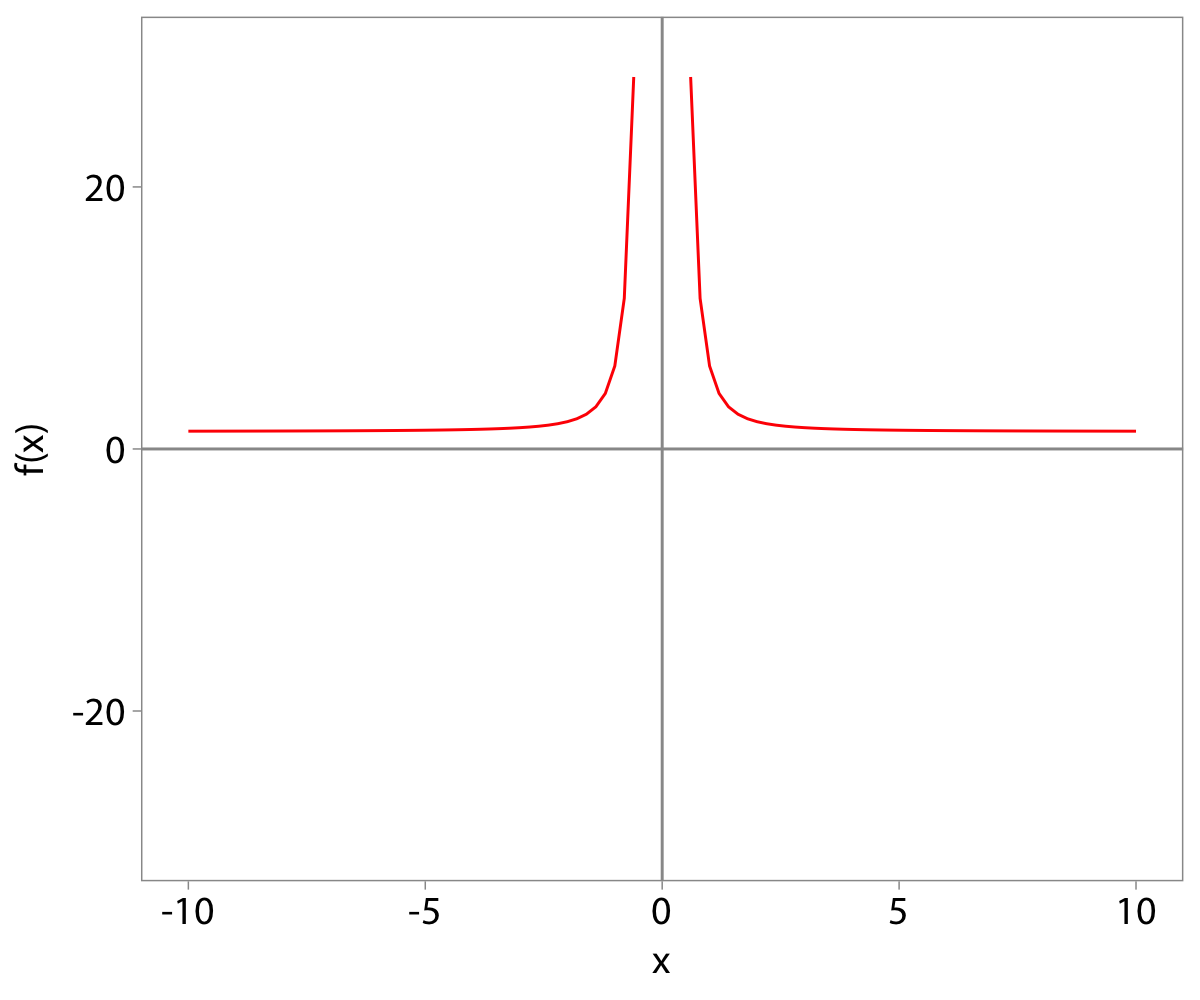
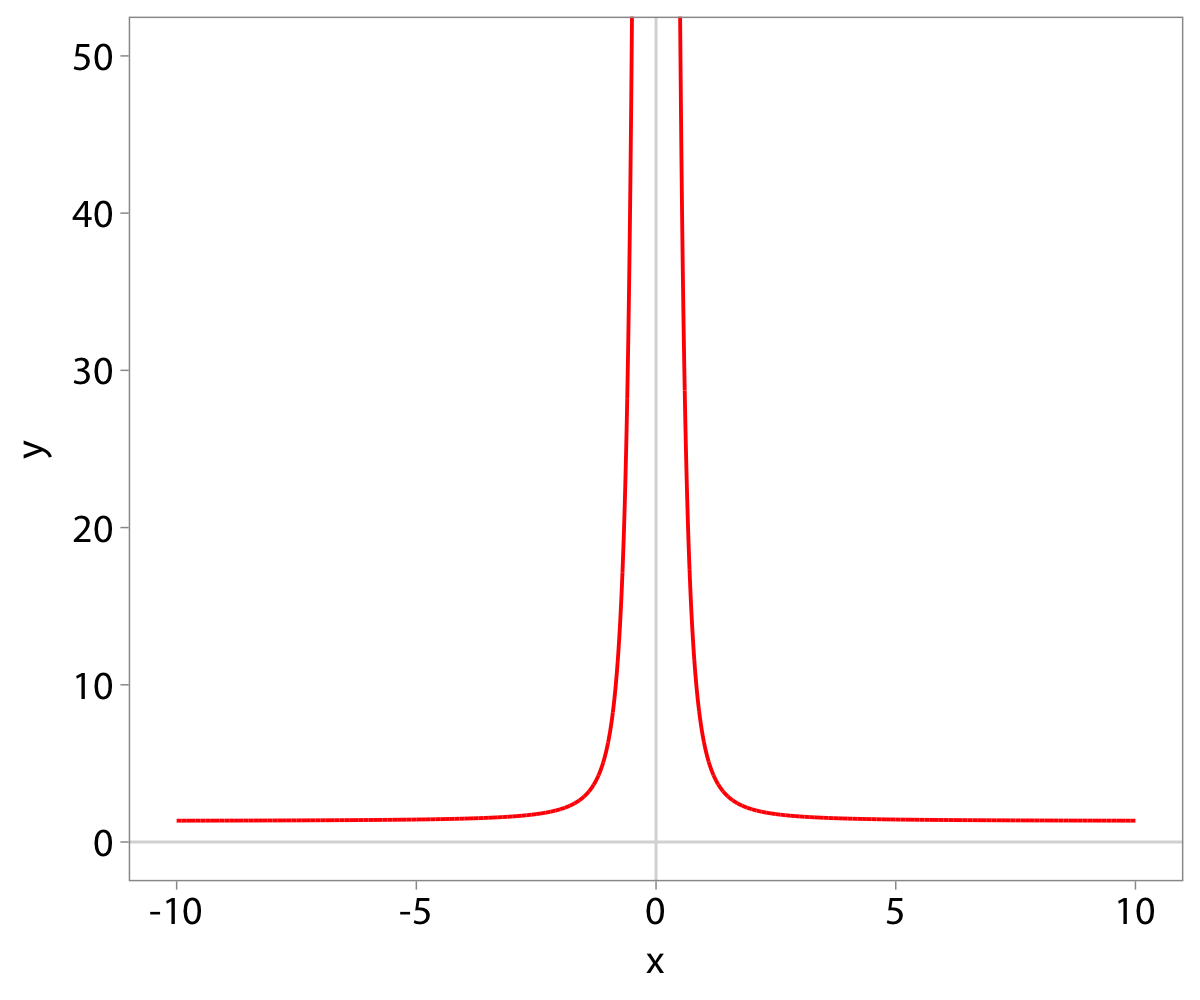
fix infinite limit graph

diff --git a/lectures/3-calculus/lecture-3-calculus.html b/lectures/3-calculus/lecture-3-calculus.html
@@ -82,7 +82,7 @@ The limit of a function characterizes its behavior given a certain input, or as 
 --
 
 .pull-left[
-&lt;img src="/Users/michaeldecrescenzo/Box Sync/workshops/math-camp/lectures/3-calculus/lecture-3-calculus_files/figure-html/unnamed-chunk-1-1.png" width="700" style="display: block; margin: auto;" /&gt;
+&lt;img src="lecture-3-calculus_files/figure-html/unnamed-chunk-1-1.png" width="700" style="display: block; margin: auto;" /&gt;
 ]
 
 .pull-right[
@@ -94,7 +94,7 @@ Let's consider the simple function, `\(f(x) = y = 3-(x-2)^2\)`, plotted to the l
 ## Limits (cont'd)
 
 .pull-left[
-&lt;img src="/Users/michaeldecrescenzo/Box Sync/workshops/math-camp/lectures/3-calculus/lecture-3-calculus_files/figure-html/unnamed-chunk-2-1.png" width="700" style="display: block; margin: auto;" /&gt;
+&lt;img src="lecture-3-calculus_files/figure-html/unnamed-chunk-2-1.png" width="700" style="display: block; margin: auto;" /&gt;
 ]
 
 .pull-right[
@@ -109,7 +109,7 @@ As `\(x\)` approaches 2,  `\(f(x)\)` or `\(y\)` approaches `\(f(2) = 3\)`.
 ## Limits (cont'd)
 
 .pull-left[
-&lt;img src="/Users/michaeldecrescenzo/Box Sync/workshops/math-camp/lectures/3-calculus/lecture-3-calculus_files/figure-html/unnamed-chunk-3-1.png" width="700" style="display: block; margin: auto;" /&gt;
+&lt;img src="lecture-3-calculus_files/figure-html/unnamed-chunk-3-1.png" width="700" style="display: block; margin: auto;" /&gt;
 ]
 
 .pull-right[
@@ -121,7 +121,7 @@ Let's consider a less simple function, `\(g(x) = y = 3-\frac{1}{x}\)`, plotted t
 ## Limits (cont'd)
 
 .pull-left[
-&lt;img src="/Users/michaeldecrescenzo/Box Sync/workshops/math-camp/lectures/3-calculus/lecture-3-calculus_files/figure-html/unnamed-chunk-4-1.png" width="700" style="display: block; margin: auto;" /&gt;
+&lt;img src="lecture-3-calculus_files/figure-html/unnamed-chunk-4-1.png" width="700" style="display: block; margin: auto;" /&gt;
 ]
 
 .pull-right[
@@ -136,7 +136,7 @@ As `\(x\)` approaches `\(\infty\)`, `\(g(x)\)` approaches 3. Why?
 ## Limits (cont'd)
 
 .pull-left[
-&lt;img src="/Users/michaeldecrescenzo/Box Sync/workshops/math-camp/lectures/3-calculus/lecture-3-calculus_files/figure-html/unnamed-chunk-5-1.png" width="700" style="display: block; margin: auto;" /&gt;
+&lt;img src="lecture-3-calculus_files/figure-html/unnamed-chunk-5-1.png" width="700" style="display: block; margin: auto;" /&gt;
 ]
 
 .pull-right[
@@ -205,6 +205,7 @@ For functions that are well-behaved (continuous), the limit as x approaches a fi
 
 ## Examples of Limits
 
+
 --
 
 Let's consider `\(\displaystyle\lim_{x \to 2} x^2-3x +1\)`
@@ -218,17 +219,23 @@ Let's consider `\(\displaystyle\lim_{x \to 2} x^2-3x +1\)`
 &amp;= 1
 \end{align}`
 
+
+
+
+
+
 ---
+
 ## Examples of Limits (cont'd)
 
 Now, let's consider `\(\displaystyle\lim_{x \to \infty} \frac{4x^4+7x^2+8}{3x^4}\)`
 
 --
 `\begin{align}
-\displaystyle\lim_{x \to \infty} \frac{4x^4+7x^2+8}{3x^4} &amp;= \lim_{x \to \infty} \frac{4x^4+7x^2+8}{3x^4} \\
-&amp;= \lim_{x \to \infty}  \frac{4x^4}{3x^4} + \lim_{x \to \infty} \frac{7x^2}{3x^4}+ \lim_{x \to \infty}  \frac{8}{3x^4} \\
-&amp;= \lim_{x \to \infty}  \frac{4}{3} + \lim_{x \to \infty} \frac{7}{3x^2}+ \lim_{x \to \infty}  \frac{8}{3x^4} \\
-&amp;= \frac{4}{3} + 0 + 0 \\
+\displaystyle\lim_{x \to \infty} \frac{4x^4+7x^2+8}{3x^4} &amp;= \lim_{x \to \infty} \frac{4x^4+7x^2+8}{3x^4} \\[9pt]
+&amp;= \lim_{x \to \infty}  \frac{4x^4}{3x^4} + \lim_{x \to \infty} \frac{7x^2}{3x^4}+ \lim_{x \to \infty}  \frac{8}{3x^4} \\[9pt]
+&amp;= \lim_{x \to \infty}  \frac{4}{3} + \lim_{x \to \infty} \frac{7}{3x^2}+ \lim_{x \to \infty}  \frac{8}{3x^4} \\[9pt]
+&amp;= \frac{4}{3} + 0 + 0 \\[9pt]
 &amp;= \frac{4}{3} 
 \end{align}`
 
@@ -241,13 +248,11 @@ Let's consider `\(\displaystyle\lim_{x \to 0} \frac{4x^4+7x^2 +8}{3x^4}\)`
 
 --
 
-`\begin{align}
-&amp;= \lim_{x \to 0} \frac{4x^4+7x^2 +8}{3x^4} \\
-&amp;= \frac{\displaystyle\lim_{x \to 0}  4x^4+7x^2 +8}{\displaystyle\lim_{x \to 0}  3x^4} \\
-&amp;= \frac{4(0)^4+7(0)^2 +8}{\displaystyle\lim_{x \to 0}  3x^4} \\
-&amp;= 8\lim_{x \to 0}\frac{1}{3x^4} \\
-&amp;= 8 \times \frac{1}{0}
-\end{align}`
+`$$\begin{align}
+&amp;= \lim_{x \to 0}  \frac{4x^4}{3x^4} + \lim_{x \to 0} \frac{7x^2}{3x^4}+ \lim_{x \to 0}  \frac{8}{3x^4} \\[12pt]
+&amp;= \lim_{x \to 0}  \frac{4}{3} + \lim_{x \to 0} \frac{7}{3x^2}+ \lim_{x \to 0}  \frac{8}{3x^4} \\[12pt]
+&amp;= \frac{4}{3} + \frac{7}{0^{2}} + \frac{8}{0^{4}}
+\end{align}$$`
 
 ---
 
@@ -262,22 +267,28 @@ Let's consider `\(\displaystyle\lim_{x \to 0} \frac{4x^4+7x^2 +8}{3x^4}\)`
 The limit does exist but the limit is `\(\infty\)`.
 
 --
-`\begin{align}
-&amp;= \lim_{x \to 0} \frac{4x^4+7x^2 +8}{3x^4} \\
-&amp;= 8\lim_{x \to 0}\frac{1}{3x^4} \\
-&amp;= 8 \times \frac{1}{0} \\
-&amp;= \infty
-\end{align}`
+
+`$$\begin{align}
+  \displaystyle\lim_{x \to 0} \frac{4x^4+7x^2 +8}{3x^4} 
+    &amp;= \frac{4}{3} + \lim_{x \to 0} \frac{7}{3x^2}+ \lim_{x \to 0}  \frac{8}{3x^4} \\[12pt]
+    &amp;= \frac{4}{3} + \text{Huge number} + \text{Huge number} \\[12pt]
+    &amp;= \infty
+\end{align}$$`
+
+--
+
+As `\(x\)` approaches `\(0\)`, the function retains some positive value in the numerator while denominator *positively* approach 0. This means that you are dividing by a smaller and smaller fraction, which means the entire statement is getting larger and approaches `\(\infty\)`.  
 
 
-As `\(x\)` approaches `\(0\)`, the function retains some positive value in the numerator while denominator *positively* approach 0. This means that you are dividing by a smaller and smaller fraction, which the entire term is getting larger and approaches `\(\infty\)`.  
+
+
 
 ---
 
 class: center, middle
 
 
-&lt;img src="/Users/michaeldecrescenzo/Box Sync/workshops/math-camp/lectures/3-calculus/lecture-3-calculus_files/figure-html/unnamed-chunk-6-1.png" width="600" style="display: block; margin: auto;" /&gt;
+&lt;img src="lecture-3-calculus_files/figure-html/unnamed-chunk-6-1.png" width="600" style="display: block; margin: auto;" /&gt;
 
 ---
 ## Derivatives
@@ -300,7 +311,7 @@ The slope of a function is how much the output changes as a result of changes in
 ## Slope
 
 .pull-left[
-&lt;img src="/Users/michaeldecrescenzo/Box Sync/workshops/math-camp/lectures/3-calculus/lecture-3-calculus_files/figure-html/unnamed-chunk-7-1.png" width="400" style="display: block; margin: auto;" /&gt;
+&lt;img src="lecture-3-calculus_files/figure-html/unnamed-chunk-7-1.png" width="400" style="display: block; margin: auto;" /&gt;
 ]
 
 .pull-right[
@@ -312,7 +323,7 @@ Let's consider the function, `\(y = 3\)`, plotted to the left. What is its ''slo
 ## Slope
 
 .pull-left[
-&lt;img src="/Users/michaeldecrescenzo/Box Sync/workshops/math-camp/lectures/3-calculus/lecture-3-calculus_files/figure-html/unnamed-chunk-8-1.png" width="400" style="display: block; margin: auto;" /&gt;
+&lt;img src="lecture-3-calculus_files/figure-html/unnamed-chunk-8-1.png" width="400" style="display: block; margin: auto;" /&gt;
 ]
 
 .pull-right[
@@ -327,7 +338,7 @@ Its slope or `\(\frac{\Delta f(x)}{\Delta x} = 0\)` because there is no "rise".
 ## Slope
 
 .pull-left[
-&lt;img src="/Users/michaeldecrescenzo/Box Sync/workshops/math-camp/lectures/3-calculus/lecture-3-calculus_files/figure-html/unnamed-chunk-9-1.png" width="400" style="display: block; margin: auto;" /&gt;
+&lt;img src="lecture-3-calculus_files/figure-html/unnamed-chunk-9-1.png" width="400" style="display: block; margin: auto;" /&gt;
 ]
 
 .pull-right[
@@ -339,7 +350,7 @@ Let's consider a less simple function, `\(y = \frac{1}{2}x+1\)`, plotted to the 
 ## Slope
 
 .pull-left[
-&lt;img src="/Users/michaeldecrescenzo/Box Sync/workshops/math-camp/lectures/3-calculus/lecture-3-calculus_files/figure-html/unnamed-chunk-10-1.png" width="400" style="display: block; margin: auto;" /&gt;
+&lt;img src="lecture-3-calculus_files/figure-html/unnamed-chunk-10-1.png" width="400" style="display: block; margin: auto;" /&gt;
 ]
 
 .pull-right[
@@ -353,7 +364,7 @@ Its slope or `\(\frac{\Delta f(x)}{\Delta x} = \frac{1}{2}\)`. [Recall: `\(y =mx
 ## Slope
 
 .pull-left[
-&lt;img src="/Users/michaeldecrescenzo/Box Sync/workshops/math-camp/lectures/3-calculus/lecture-3-calculus_files/figure-html/unnamed-chunk-11-1.png" width="400" style="display: block; margin: auto;" /&gt;
+&lt;img src="lecture-3-calculus_files/figure-html/unnamed-chunk-11-1.png" width="400" style="display: block; margin: auto;" /&gt;
 ]
 
 .pull-right[
@@ -365,7 +376,7 @@ Let's consider even more complicated function, `\(y = x-x^2\)`, plotted to the l
 ## Slope
 
 .pull-left[
-&lt;img src="/Users/michaeldecrescenzo/Box Sync/workshops/math-camp/lectures/3-calculus/lecture-3-calculus_files/figure-html/unnamed-chunk-12-1.png" width="400" style="display: block; margin: auto;" /&gt;
+&lt;img src="lecture-3-calculus_files/figure-html/unnamed-chunk-12-1.png" width="400" style="display: block; margin: auto;" /&gt;
 ]
 
 .pull-right[
@@ -387,20 +398,20 @@ Let's consider a few examples of this
 ---
 
 class: center, middle
-&lt;img src="/Users/michaeldecrescenzo/Box Sync/workshops/math-camp/lectures/3-calculus/lecture-3-calculus_files/figure-html/unnamed-chunk-13-1.png" width="600" style="display: block; margin: auto;" /&gt;
+&lt;img src="lecture-3-calculus_files/figure-html/unnamed-chunk-13-1.png" width="600" style="display: block; margin: auto;" /&gt;
 ---
 class: center, middle
-&lt;img src="/Users/michaeldecrescenzo/Box Sync/workshops/math-camp/lectures/3-calculus/lecture-3-calculus_files/figure-html/unnamed-chunk-14-1.png" width="600" style="display: block; margin: auto;" /&gt;
+&lt;img src="lecture-3-calculus_files/figure-html/unnamed-chunk-14-1.png" width="600" style="display: block; margin: auto;" /&gt;
 ---
 class: center, middle
-&lt;img src="/Users/michaeldecrescenzo/Box Sync/workshops/math-camp/lectures/3-calculus/lecture-3-calculus_files/figure-html/unnamed-chunk-15-1.png" width="600" style="display: block; margin: auto;" /&gt;
+&lt;img src="lecture-3-calculus_files/figure-html/unnamed-chunk-15-1.png" width="600" style="display: block; margin: auto;" /&gt;
 ---
 
 class: center, middle
-&lt;img src="/Users/michaeldecrescenzo/Box Sync/workshops/math-camp/lectures/3-calculus/lecture-3-calculus_files/figure-html/unnamed-chunk-16-1.png" width="600" style="display: block; margin: auto;" /&gt;
+&lt;img src="lecture-3-calculus_files/figure-html/unnamed-chunk-16-1.png" width="600" style="display: block; margin: auto;" /&gt;
 ---
 class: center, middle
-&lt;img src="/Users/michaeldecrescenzo/Box Sync/workshops/math-camp/lectures/3-calculus/lecture-3-calculus_files/figure-html/unnamed-chunk-17-1.png" width="600" style="display: block; margin: auto;" /&gt;
+&lt;img src="lecture-3-calculus_files/figure-html/unnamed-chunk-17-1.png" width="600" style="display: block; margin: auto;" /&gt;
 ---
 ## Derivatives as a Limit
 
@@ -516,7 +527,7 @@ So, as you reduce the interval size to `\(0\)`, this line converges in the limit
 ## Derivative as a Limit
 
 .pull-left[
-&lt;img src="/Users/michaeldecrescenzo/Box Sync/workshops/math-camp/lectures/3-calculus/lecture-3-calculus_files/figure-html/unnamed-chunk-18-1.png" width="700" style="display: block; margin: auto;" /&gt;
+&lt;img src="lecture-3-calculus_files/figure-html/unnamed-chunk-18-1.png" width="700" style="display: block; margin: auto;" /&gt;
 ]
 
 .pull-right[
@@ -1112,7 +1123,7 @@ Either the total area as the function extends to infinity in either direction, o
 ## Areas
 
 .pull-left[
-&lt;img src="/Users/michaeldecrescenzo/Box Sync/workshops/math-camp/lectures/3-calculus/lecture-3-calculus_files/figure-html/unnamed-chunk-19-1.png" width="500" style="display: block; margin: auto;" /&gt;
+&lt;img src="lecture-3-calculus_files/figure-html/unnamed-chunk-19-1.png" width="500" style="display: block; margin: auto;" /&gt;
 ]
 
 .pull-right[
@@ -1125,7 +1136,7 @@ Let's consider the function, `\(y = 3\)`, plotted to the left. What is its area 
 ## Areas
 
 .pull-left[
-&lt;img src="/Users/michaeldecrescenzo/Box Sync/workshops/math-camp/lectures/3-calculus/lecture-3-calculus_files/figure-html/unnamed-chunk-20-1.png" width="500" style="display: block; margin: auto;" /&gt;
+&lt;img src="lecture-3-calculus_files/figure-html/unnamed-chunk-20-1.png" width="500" style="display: block; margin: auto;" /&gt;
 ]
 
 .pull-right[
@@ -1140,7 +1151,7 @@ Given that this is a rectangle, the area between the function and the x-axis is 
 ## Areas
 
 .pull-left[
-&lt;img src="/Users/michaeldecrescenzo/Box Sync/workshops/math-camp/lectures/3-calculus/lecture-3-calculus_files/figure-html/unnamed-chunk-21-1.png" width="500" style="display: block; margin: auto;" /&gt;
+&lt;img src="lecture-3-calculus_files/figure-html/unnamed-chunk-21-1.png" width="500" style="display: block; margin: auto;" /&gt;
 ]
 
 .pull-right[
@@ -1153,7 +1164,7 @@ Let's consider a less simple function, `\(y = \frac{1}{2}x+1\)`, plotted to the 
 ## Areas
 
 .pull-left[
-&lt;img src="/Users/michaeldecrescenzo/Box Sync/workshops/math-camp/lectures/3-calculus/lecture-3-calculus_files/figure-html/unnamed-chunk-22-1.png" width="500" style="display: block; margin: auto;" /&gt;
+&lt;img src="lecture-3-calculus_files/figure-html/unnamed-chunk-22-1.png" width="500" style="display: block; margin: auto;" /&gt;
 ]
 
 .pull-right[
@@ -1168,7 +1179,7 @@ We can find the area between the function and the x-axis by taking advantage of 
 ## Area
 
 .pull-left[
-&lt;img src="/Users/michaeldecrescenzo/Box Sync/workshops/math-camp/lectures/3-calculus/lecture-3-calculus_files/figure-html/unnamed-chunk-23-1.png" width="500" style="display: block; margin: auto;" /&gt;
+&lt;img src="lecture-3-calculus_files/figure-html/unnamed-chunk-23-1.png" width="500" style="display: block; margin: auto;" /&gt;
 ]
 
 .pull-right[
@@ -1180,7 +1191,7 @@ Let's consider even more complicated function, `\(y = x-x^2\)`, plotted to the l
 ## Area
 
 .pull-left[
-&lt;img src="/Users/michaeldecrescenzo/Box Sync/workshops/math-camp/lectures/3-calculus/lecture-3-calculus_files/figure-html/unnamed-chunk-24-1.png" width="500" style="display: block; margin: auto;" /&gt;
+&lt;img src="lecture-3-calculus_files/figure-html/unnamed-chunk-24-1.png" width="500" style="display: block; margin: auto;" /&gt;
 ]
 
 .pull-right[
@@ -1201,17 +1212,17 @@ Let's see what happens as we add rectangles
 ---
 class: center,  middle
 
-&lt;img src="/Users/michaeldecrescenzo/Box Sync/workshops/math-camp/lectures/3-calculus/lecture-3-calculus_files/figure-html/unnamed-chunk-25-1.png" width="500" style="display: block; margin: auto;" /&gt;
+&lt;img src="lecture-3-calculus_files/figure-html/unnamed-chunk-25-1.png" width="500" style="display: block; margin: auto;" /&gt;
 ---
 
 class: center, middle
 
-&lt;img src="/Users/michaeldecrescenzo/Box Sync/workshops/math-camp/lectures/3-calculus/lecture-3-calculus_files/figure-html/unnamed-chunk-26-1.png" width="500" style="display: block; margin: auto;" /&gt;
+&lt;img src="lecture-3-calculus_files/figure-html/unnamed-chunk-26-1.png" width="500" style="display: block; margin: auto;" /&gt;
 ---
 
 class: center, middle
 
-&lt;img src="/Users/michaeldecrescenzo/Box Sync/workshops/math-camp/lectures/3-calculus/lecture-3-calculus_files/figure-html/unnamed-chunk-27-1.png" width="500" style="display: block; margin: auto;" /&gt;
+&lt;img src="lecture-3-calculus_files/figure-html/unnamed-chunk-27-1.png" width="500" style="display: block; margin: auto;" /&gt;
 ---
 
 ## Integral as the Limit of a Sum
@@ -1427,7 +1438,7 @@ What does this look like in practical terms?
 ## Optimization (cont'd)
 
 .pull-left[
-&lt;img src="/Users/michaeldecrescenzo/Box Sync/workshops/math-camp/lectures/3-calculus/lecture-3-calculus_files/figure-html/unnamed-chunk-28-1.png" width="500" style="display: block; margin: auto;" /&gt;
+&lt;img src="lecture-3-calculus_files/figure-html/unnamed-chunk-28-1.png" width="500" style="display: block; margin: auto;" /&gt;
 ]
 
 .pull-right[
@@ -1440,7 +1451,7 @@ Suppose we want to find all the maxima and minima for  the function, `\(f(x) = 2
 ## Optimization (cont'd)
 
 .pull-left[
-&lt;img src="/Users/michaeldecrescenzo/Box Sync/workshops/math-camp/lectures/3-calculus/lecture-3-calculus_files/figure-html/unnamed-chunk-29-1.png" width="500" style="display: block; margin: auto;" /&gt;
+&lt;img src="lecture-3-calculus_files/figure-html/unnamed-chunk-29-1.png" width="500" style="display: block; margin: auto;" /&gt;
 ]
 
 .pull-right[
@@ -1456,7 +1467,7 @@ The *absolute maximum* occurs at `\(x = 10\)`, and the *absolute minimum* occurs
 ## Optimization (cont'd)
 
 .pull-left[
-&lt;img src="/Users/michaeldecrescenzo/Box Sync/workshops/math-camp/lectures/3-calculus/lecture-3-calculus_files/figure-html/unnamed-chunk-30-1.png" width="500" style="display: block; margin: auto;" /&gt;
+&lt;img src="lecture-3-calculus_files/figure-html/unnamed-chunk-30-1.png" width="500" style="display: block; margin: auto;" /&gt;
 ]
 
 .pull-right[
@@ -1509,7 +1520,7 @@ x &amp;= 4 \text{ or } 7
 
 ---
 class: center, middle
-&lt;img src="/Users/michaeldecrescenzo/Box Sync/workshops/math-camp/lectures/3-calculus/lecture-3-calculus_files/figure-html/unnamed-chunk-31-1.png" width="600" style="display: block; margin: auto;" /&gt;
+&lt;img src="lecture-3-calculus_files/figure-html/unnamed-chunk-31-1.png" width="600" style="display: block; margin: auto;" /&gt;
 ---
 ## Optimization (cont'd)
 
